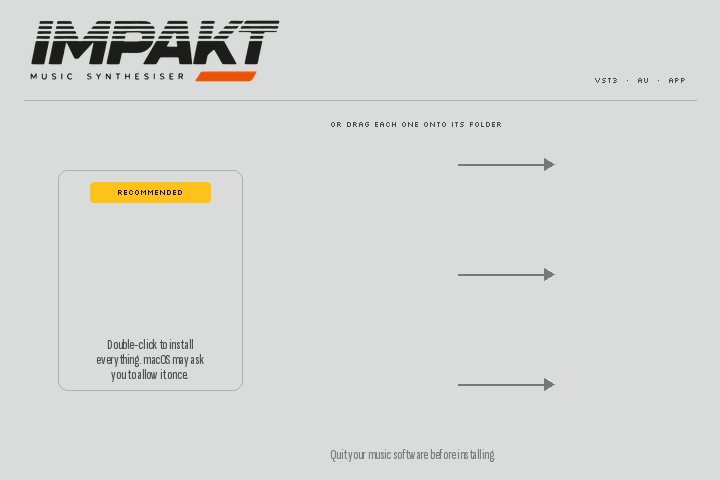
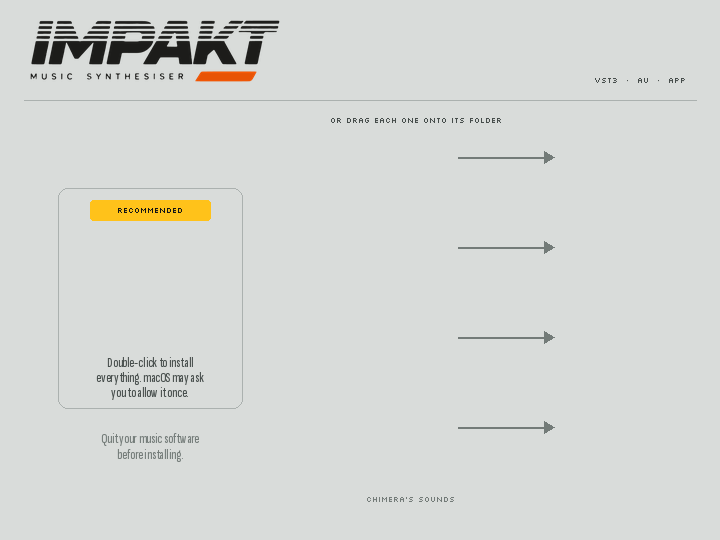
0.87.1: one copy of CHIMERA's sounds for the VST3, the AU and the app
The installers no longer copy the bank into each plugin: the Mac package puts it in
/Library/Application Support/IMPAKT, the Windows installer in C:\ProgramData\IMPAKT, the Linux
archive in ~/.local/share/IMPAKT. The plugin finds it there (IMPAKT_EMBED_BANK=OFF in CI; a local
build still embeds it). The disk image gets a fourth shortcut, Application Support.

Claude-Session: https://claude.ai/code/session_01NNutK6xB6qt9E5xpquZjcG

diff --git a/packaging/mac/dmg_settings.py b/packaging/mac/dmg_settings.py
@@ -1,24 +1,27 @@
 # dmgbuild settings for IMPAKT's disk image (packaging/mac/make_dmg.sh: dmgbuild -s dmg_settings.py -D stage=... -D bg=...)
-# The window: the installer on the left; on the right the plugins and the app, each beside a shortcut to its folder.
+# The window: the installer on the left; on the right the plugins, the app and CHIMERA's sounds (the folder IMPAKT), each
+# beside a shortcut to its folder.
 # The icon places match packaging/mac/draw_background.py (the background is drawn around them).
 import os
 
 stage = defines['stage']          # the folder with Install IMPAKT.pkg, IMPAKT.vst3, IMPAKT.component, IMPAKT.app
 background = defines['bg']        # dmg-background.png (its @2x beside it)
 
-files = [os.path.join(stage, n) for n in ('Install IMPAKT.pkg', 'IMPAKT.vst3', 'IMPAKT.component', 'IMPAKT.app', 'LISEZ-MOI.txt')]
-symlinks = {'VST3': '/Library/Audio/Plug-Ins/VST3', 'Components': '/Library/Audio/Plug-Ins/Components', 'Applications': '/Applications'}
+files = [os.path.join(stage, n) for n in ('Install IMPAKT.pkg', 'IMPAKT.vst3', 'IMPAKT.component', 'IMPAKT.app', 'IMPAKT', 'LISEZ-MOI.txt')]
+symlinks = {'VST3': '/Library/Audio/Plug-Ins/VST3', 'Components': '/Library/Audio/Plug-Ins/Components', 'Applications': '/Applications',
+            'Application Support': '/Library/Application Support'}
 icon_locations = {
-    'Install IMPAKT.pkg': (150, 282),
-    'IMPAKT.vst3': (410, 172), 'VST3': (600, 172),
-    'IMPAKT.component': (410, 282), 'Components': (600, 282),
-    'IMPAKT.app': (410, 392), 'Applications': (600, 392),
-    'LISEZ-MOI.txt': (150, 560),  # (below the window's edge: there, but out of the way)
+    'Install IMPAKT.pkg': (150, 300),
+    'IMPAKT.vst3': (410, 165), 'VST3': (600, 165),
+    'IMPAKT.component': (410, 255), 'Components': (600, 255),
+    'IMPAKT.app': (410, 345), 'Applications': (600, 345),
+    'IMPAKT': (410, 435), 'Application Support': (600, 435),
+    'LISEZ-MOI.txt': (150, 640),  # (below the window's edge: there, but out of the way)
 }
 format = 'ULFO'                   # (lzfse: macOS 10.11 and later)
 filesystem = 'HFS+'
 size = None
-window_rect = ((200, 140), (720, 480))
+window_rect = ((200, 120), (720, 540))
 default_view = 'icon-view'
 show_icon_preview = False
 show_status_bar = False
@@ -26,7 +29,7 @@ show_tab_view = False
 show_toolbar = False
 show_pathbar = False
 show_sidebar = False
-icon_size = 64
+icon_size = 56
 text_size = 13
 arrange_by = None
 label_pos = 'bottom'

diff --git a/plugin/Source/PluginProcessor.cpp b/plugin/Source/PluginProcessor.cpp
@@ -4,14 +4,32 @@
 #include <mutex>
 #include <cstdlib>
 
+// CHIMERA's bank: one copy for the VST3, the AU and the app (v87.1: the installers put it in the system's shared data
+// folder), or one inside the plugin itself (a build that embeds it), or the folder $IMPAKT_BANK names
 juce::File ImpaktProcessor::bankFolder()
 {
     juce::Array<juce::File> dirs;
     if (const char* env = std::getenv ("IMPAKT_BANK")) dirs.add (juce::File (juce::String (env)));
     const auto exe = juce::File::getSpecialLocation (juce::File::currentExecutableFile);
-    dirs.add (exe.getParentDirectory().getParentDirectory().getChildFile ("Resources").getChildFile ("bank"));   // (a macOS bundle)
-    dirs.add (exe.getParentDirectory().getChildFile ("bank"));                                                   // (an iOS app, beside a binary)
-    dirs.add (juce::File::getSpecialLocation (juce::File::userApplicationDataDirectory).getChildFile ("IMPAKT").getChildFile ("bank"));
+    dirs.add (exe.getParentDirectory().getParentDirectory().getChildFile ("Resources").getChildFile ("bank"));   // (inside a bundle)
+    dirs.add (exe.getParentDirectory().getChildFile ("bank"));                                                   // (beside a binary)
+    const auto common = juce::File::getSpecialLocation (juce::File::commonApplicationDataDirectory);
+    const auto user   = juce::File::getSpecialLocation (juce::File::userApplicationDataDirectory);
+   #if JUCE_MAC || JUCE_IOS
+    // /Library/Application Support/IMPAKT/bank (the installer), ~/Library/Application Support/IMPAKT/bank
+    dirs.add (common.getChildFile ("Application Support/IMPAKT/bank"));
+    dirs.add (user.getChildFile ("Application Support/IMPAKT/bank"));
+   #elif JUCE_WINDOWS
+    // C:\ProgramData\IMPAKT\bank (the installer), %APPDATA%\IMPAKT\bank
+    dirs.add (common.getChildFile ("IMPAKT").getChildFile ("bank"));
+   #else
+    // ~/.local/share/IMPAKT/bank (install.sh), /usr/local/share, /usr/share
+    const char* xdg = std::getenv ("XDG_DATA_HOME");
+    dirs.add ((xdg != nullptr && *xdg ? juce::File (juce::String (xdg)) : juce::File ("~/.local/share")).getChildFile ("IMPAKT/bank"));
+    dirs.add (juce::File ("/usr/local/share/IMPAKT/bank"));
+    dirs.add (juce::File ("/usr/share/IMPAKT/bank"));
+   #endif
+    dirs.add (user.getChildFile ("IMPAKT").getChildFile ("bank"));
     for (const auto& d : dirs) if (d.getChildFile ("chimera.idx").existsAsFile()) return d;
     return {};
 }

diff --git a/packaging/mac/draw_background.py b/packaging/mac/draw_background.py
@@ -9,11 +9,11 @@ from fontTools.ttLib import TTFont
 
 HERE = os.path.dirname(os.path.abspath(__file__))
 FONTS = os.path.join(HERE, '..', '..', 'web', 'fonts')
-W, H = 720, 480
+W, H = 720, 540
 PANEL, INK, INK2, INK3, LINE, HOT, RED = '#D9DCDA', '#141617', '#464D4B', '#737B78', '#ABB1AF', '#FFC21A', '#E85305'
 # the icons' centres (points), as in dmg_settings.py
-PKG = (150, 282)
-ROWS = [(410, 172, 600), (410, 282, 600), (410, 392, 600)]   # (file x, y, folder x)
+PKG = (150, 300)
+ROWS = [(410, 165, 600), (410, 255, 600), (410, 345, 600), (410, 435, 600)]   # (file x, y, folder x)
 
 
 def font(name, size):
@@ -48,12 +48,17 @@ def draw(scale):
         d.text((s(PKG[0]) - w / 2, s(PKG[1] + 54 + 15 * k)), line, font=small, fill=INK2)
     # right: or by hand, each one onto its folder
     t = 'OR DRAG EACH ONE ONTO ITS FOLDER'
-    d.text((s(330), s(118)), t, font=px, fill=INK2)
+    d.text((s(330), s(114)), t, font=px, fill=INK2)
+    # the last row: the folder IMPAKT holds CHIMERA's sounds
+    t2 = "CHIMERA'S SOUNDS"
+    d.text((s(410) - d.textlength(t2, font=px) / 2, s(435 + 58)), t2, font=px, fill=INK3)
     for (fx, y, gx) in ROWS:
         a, b = fx + 48, gx - 48
         d.line((s(a), s(y - 8), s(b), s(y - 8)), fill=INK3, width=max(1, s(2)))
         d.polygon([(s(b + 2), s(y - 8)), (s(b - 8), s(y - 14)), (s(b - 8), s(y - 2))], fill=INK3)
-    d.text((s(330), s(H - 34)), 'Quit your music software before installing.', font=small, fill=INK3)
+    for k, line in enumerate(['Quit your music software', 'before installing.']):
+        w = d.textlength(line, font=small)
+        d.text((s(PKG[0]) - w / 2, s(PKG[1] + 130 + 16 * k)), line, font=small, fill=INK3)
     return im
 
 

diff --git a/docs/manuel.md b/docs/manuel.md
@@ -805,7 +805,7 @@ Sa page :
 
 **La banque** (`bank/`). Les 199 sons, silences coupés (au début à −60 dB sous la crête, à la fin sous −70 dB), 10 s au plus, mono quand leurs côtés sont muets, en 16 bits : 72 Mo décodés, 29,6 Mo dans les fichiers, codés sans perte par un codec maison dans l'esprit de FLAC (milieu et côtés, prédicteurs fixes d'ordre 0 à 4, codes de Rice ; chaque son vérifié par une somme de contrôle). Chaque son a son gain (ses 100 ms les plus fortes ramenées à −14 dB, pondération K), sa hauteur (YIN) et ses huit mesures. `python3 tools/make_bank.py <kit.zip ou dossier> bank` refait la banque à partir d'un autre kit : un dossier par catégorie (kick, snare, clap, hat, perc, 808, cymbal, vox, fx, loops), des fichiers WAV ; puis `python3 tools/build_web.py` pour la page.
 
-**Le chargement.** Dans la page, l'index est intégré ; les sons (29,6 Mo, 39,5 Mo une fois en texte : voir Page web) ne sont téléchargés que lorsqu'une piste joue CHIMERA (et gardés ensuite par le cache du navigateur), puis le moteur les décode un son à la fois pendant qu'il joue, sans jamais faire attendre l'audio : environ 16 s en lecture, 3 s à l'arrêt. L'écran affiche BANK · LOADING, puis DECODING n/199 ; un son pas encore décodé ne joue pas. Les fichiers doivent être servis par un serveur (la page publiée, ou `dist/local/` servi en local, par exemple avec `python3 -m http.server` dans ce dossier) : ouverte depuis le disque, la page ne peut pas les lire et l'écran le dit. Le plugin lit la banque une fois, en tâche de fond, au premier chargement (moins d'une seconde), partagée par toutes ses instances : sur Mac, elle est copiée dans le paquet du plugin à la compilation (`Contents/Resources/bank`) ; ailleurs, il la cherche dans un dossier `bank` à côté de son binaire, puis dans le dossier de données de l'utilisateur (`IMPAKT/bank` : `%APPDATA%\IMPAKT\bank` sous Windows, `~/.config/IMPAKT/bank` sous Linux), ou dans le dossier donné par la variable d'environnement `IMPAKT_BANK`. Copiez-y les quatre fichiers de `bank/`.
+**Le chargement.** Dans la page, l'index est intégré ; les sons (29,6 Mo, 39,5 Mo une fois en texte : voir Page web) ne sont téléchargés que lorsqu'une piste joue CHIMERA (et gardés ensuite par le cache du navigateur), puis le moteur les décode un son à la fois pendant qu'il joue, sans jamais faire attendre l'audio : environ 16 s en lecture, 3 s à l'arrêt. L'écran affiche BANK · LOADING, puis DECODING n/199 ; un son pas encore décodé ne joue pas. Les fichiers doivent être servis par un serveur (la page publiée, ou `dist/local/` servi en local, par exemple avec `python3 -m http.server` dans ce dossier) : ouverte depuis le disque, la page ne peut pas les lire et l'écran le dit. Le plugin lit la banque une fois, en tâche de fond, au premier chargement (moins d'une seconde), partagée par toutes ses instances : les installeurs en posent un seul exemplaire pour le VST3, l'AU et l'application (`/Library/Application Support/IMPAKT/bank` sur Mac, `C:\ProgramData\IMPAKT\bank` sous Windows, `~/.local/share/IMPAKT/bank` sous Linux) ; une compilation locale la copie dans le paquet du plugin (`Contents/Resources/bank`) et à côté de l'application. Il la cherche aussi dans `IMPAKT/bank` du dossier de données de l'utilisateur (`%APPDATA%\IMPAKT\bank` sous Windows, `~/.config/IMPAKT/bank` sous Linux), ou dans le dossier donné par la variable d'environnement `IMPAKT_BANK`. Copiez-y les quatre fichiers de `bank/`.
 
 **Les 20 presets** (étiquette SOPHIE, d'après le kit) : RUBBER KICK, KICK FAMILY, STOMP FLOOR, KICK ON 808, CHROME CLAP, BOOM CLAP, CLAP SHUFFLE, GLASS SNARE, SNARE ACCENTS, METAL SNAP, HAT SHUFFLE, HAT LOOP, SQUEAK KIT, SMACK METAL, WHIP BODY, TOM SWAP, 808 FAMILY, REVERSE IMPACT, REVERSE CHANT, CHANT CHOPS : des familles en RND ou en LOOP, des greffes (un kick sur un 808, un clap sur un impact, une caisse sur un impact de verre), des sons à l'envers.
 
@@ -1689,7 +1689,7 @@ cmake -B build -DCMAKE_BUILD_TYPE=Release
 cmake --build build --config Release
 ```
 
-Windows : le moteur compile avec **clang-cl** (les builtins de Clang qu'il emploie n'existent pas dans MSVC) : `-G Ninja -DCMAKE_C_COMPILER=clang-cl -DCMAKE_CXX_COMPILER=clang-cl -DIMPAKT_LTO=OFF` depuis une invite de commandes Visual Studio (x64), avec le paquet NuGet `Microsoft.Web.WebView2` (`nuget install Microsoft.Web.WebView2 -OutputDirectory C:\webview2`, puis `-DJUCE_WEBVIEW2_PACKAGE_LOCATION=C:\webview2`). Linux : dépendances JUCE habituelles + `libwebkit2gtk-4.1-dev` et `libcurl4-openssl-dev`. Sous Windows et Linux, la banque de CHIMERA est copiée dans le paquet VST3 (`Contents/Resources/bank`) et à côté de l'application.
+Windows : le moteur compile avec **clang-cl** (les builtins de Clang qu'il emploie n'existent pas dans MSVC) : `-G Ninja -DCMAKE_C_COMPILER=clang-cl -DCMAKE_CXX_COMPILER=clang-cl -DIMPAKT_LTO=OFF` depuis une invite de commandes Visual Studio (x64), avec le paquet NuGet `Microsoft.Web.WebView2` (`nuget install Microsoft.Web.WebView2 -OutputDirectory C:\webview2`, puis `-DJUCE_WEBVIEW2_PACKAGE_LOCATION=C:\webview2`). Linux : dépendances JUCE habituelles + `libwebkit2gtk-4.1-dev` et `libcurl4-openssl-dev`. Une compilation locale copie la banque de CHIMERA dans le paquet VST3 (`Contents/Resources/bank`) et à côté de l'application ; les installeurs, compilés avec `-DIMPAKT_EMBED_BANK=OFF`, en posent un seul exemplaire partagé.
 
 ### Versions, installeurs, mises à jour (v87)
 
@@ -1709,7 +1709,7 @@ Le **site** (https://distortedimages-code.github.io/IMPAKT/, `site/build_site.py
 - Notes MIDI 36 à 43 (C1–G1) sur le canal 1 (ou 10 et au-delà) : déclenchent les pistes 1 à 8.
 - Canaux 2 à 9 (v81) : les pistes 1 à 8 jouées au clavier, do4 à la hauteur de la piste (HOWL : la note est la fondamentale de son accord, mi2 à ROOT au milieu ; sur POLY, chaque note une corde) ; la vélocité est celle de la note, le note-off relâche ce qu'elle tient (HOLD, POLY).
 - Le motif, les sons et les locks sont sauvegardés avec le projet, ainsi que les prises de la machine RAM.
-- La banque de CHIMERA n'est pas dans le projet : le plugin la lit au démarrage (dans son paquet sur Mac, sinon dans un dossier `bank` à côté du binaire, dans `IMPAKT/bank` du dossier de données de l'utilisateur ou dans `$IMPAKT_BANK` ; voir CHIMERA).
+- La banque de CHIMERA n'est pas dans le projet : le plugin la lit au démarrage. Depuis la 0.87.1, les installeurs en posent un seul exemplaire pour le VST3, l'AU et l'application : `/Library/Application Support/IMPAKT/bank` sur Mac, `C:\ProgramData\IMPAKT\bank` sous Windows, `~/.local/share/IMPAKT/bank` sous Linux. Le plugin la cherche là, dans son propre paquet (`Contents/Resources/bank` : une compilation locale l'y met, option CMake `IMPAKT_EMBED_BANK`, ON par défaut), à côté de son binaire, dans `IMPAKT/bank` du dossier de données de l'utilisateur, ou dans le dossier que nomme `$IMPAKT_BANK` (voir CHIMERA).
 - Le plugin a une entrée stéréo : c'est la source **IN** de la machine RAM. Dans Logic, elle apparaît comme side-chain de l'instrument ; dans les autres hôtes, envoyez-y une piste audio (ou une entrée de la carte son). Dans l'application autonome, activez l'entrée dans les réglages audio.
 
 ## Page web

diff --git a/CHANGELOG.md b/CHANGELOG.md
@@ -1,5 +1,14 @@
 # Versions d'IMPAKT
 
+## 0.87.1
+
+- **Installeurs plus légers** : les sons de CHIMERA ne sont plus copiés dans chaque plugin. Un seul exemplaire sert au
+  VST3, à l'AU et à l'application : `/Library/Application Support/IMPAKT` sur Mac, `C:\ProgramData\IMPAKT` sous
+  Windows, `~/.local/share/IMPAKT` sous Linux.
+  L'image disque Mac pèse beaucoup moins lourd.
+- **Image disque Mac** : un quatrième raccourci, Application Support, pour y glisser le dossier des sons quand on
+  installe à la main.
+
 ## 0.87.0
 
 Première version publiée : IMPAKT s'installe sur Mac, Windows et Linux, et se met à jour tout seul.
